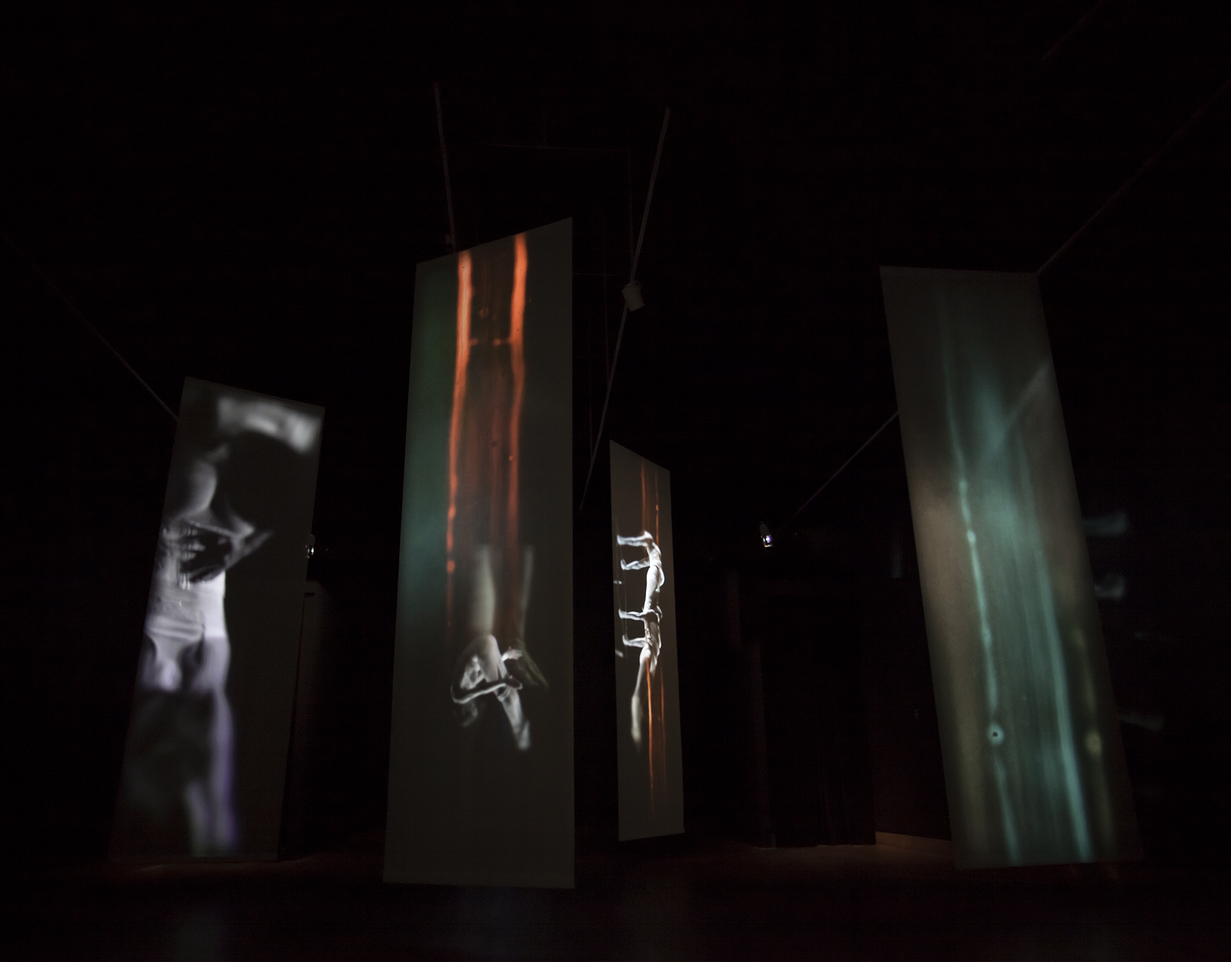
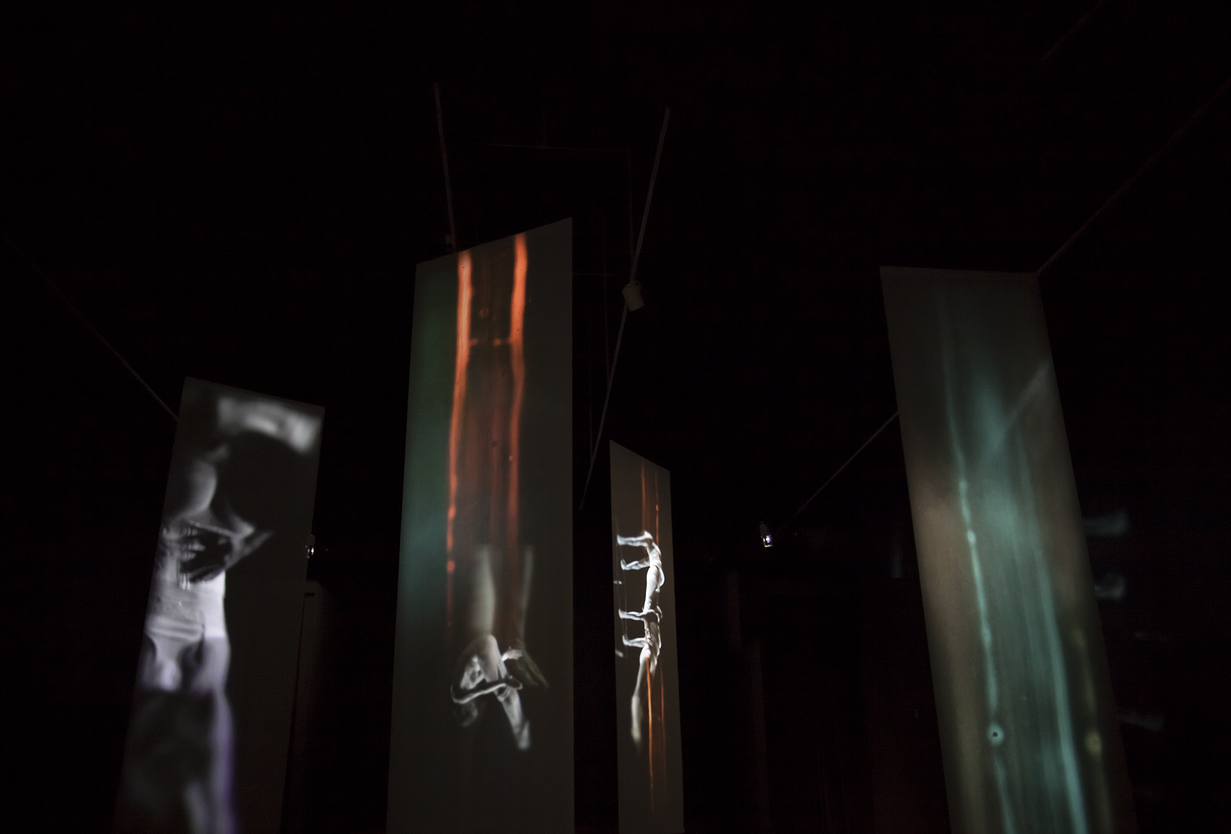
Ajoute Souffle et réminiscence

diff --git a/_projects-en/souffle-et-reminiscence.html b/_projects-en/souffle-et-reminiscence.html
@@ -1,26 +1,30 @@
 ---
 title: Souffle et réminiscence
 date: 2011-11-11
+published: true
 type: video
 language: en
 layout: project
-tags: [Installation, Conception vidéo, Animation]
+tags: [Video Design, Animation]
 ---
 
 <section class="wide">
-  {% include image.html name="hero" alt="Photographie de l’installation Souffle et réminiscence" %}
+  {% include image.html name="hero" alt="Picture of the installation Souffle et réminiscence" %}
 </section>
 
 <section class="superimposed">
   <div class="text">
     <h1>Souffle et réminiscence</h1>
-    <p class="intro">Une installation invitant à la contemplation.</p>
+    <p class="intro">An installation about soaring bodies, fear, and excitement.</p>
   </div>
 </section>
 
 <section>
   <div class="text">
-    <p>Conception par Jeannot Painchaud du Cirque Éloize. Installation présentée lors de l’exposition <em>Big Bang</em> au Musée des beaux-arts de Montréal. Musique par <a href="http://grandponey.com/jacques-poulin-denis/">Jacques Poulin-Denis</a>. Réalisé au sein de <a href="http://foumalade.org">Foumalade</a>.</p>
+    <p>Inspired by Jean-Paul Riopelle’s <em>Le cirque</em>, Jeannot Painchaud (Cirque Éloize) envisionned an art installation that plunges visitors into a space inhabited by ghostly bodies straining, breathing, and moving through the air.</p>
+    <p>Presented as part of the <em>Big Bang</em> exhibiton at the Montreal Museum of Fine Arts. Music by <a href="http://grandponey.com/jacques-poulin-denis/">Jacques Poulin-Denis</a>. Video work done as part of the <a href="http://foumalade.org">Foumalade</a> collective.</p>
     {% include tags.html %}
   </div>
 </section>
+
+{% include video.html id="49175473" poster="still" title="Installation Teaser" %}

diff --git a/_projects-fr/souffle-et-reminiscence.html b/_projects-fr/souffle-et-reminiscence.html
@@ -1,10 +1,11 @@
 ---
 title: Souffle et réminiscence
 date: 2011-11-11
+published: true
 type: video
 language: fr
 layout: project
-tags: [Installation, Conception vidéo, Animation]
+tags: [Conception vidéo, Animation]
 ---
 
 <section class="wide">
@@ -14,13 +15,16 @@ tags: [Installation, Conception vidéo, Animation]
 <section class="superimposed">
   <div class="text">
     <h1>Souffle et réminiscence</h1>
-    <p class="intro">Une installation invitant à la contemplation.</p>
+    <p class="intro">Une installation sur le corps, la peur, l’exaltation.</p>
   </div>
 </section>
 
 <section>
   <div class="text">
-    <p>Conception par Jeannot Painchaud du Cirque Éloize. Installation présentée lors de l’exposition <em>Big Bang</em> au Musée des beaux-arts de Montréal. Musique par <a href="http://grandponey.com/jacques-poulin-denis/">Jacques Poulin-Denis</a>. Réalisé au sein de <a href="http://foumalade.org">Foumalade</a>.</p>
+    <p>Inspiré par <em>Le cirque</em> de Jean-Paul Riopelle, Jeannot Painchaud (Cirque Éloize) a imaginé une installation qui nous plonge dans un univers habité de corps fantômatiques qui se tordent, respirent et s’animent dans l’espace.</p>
+    <p>Présenté dans le cadre de l’exposition <em>Big Bang</em> au Musée des Beaux-Arts de Montréal. Musique par <a href="http://grandponey.com/jacques-poulin-denis/">Jacques Poulin-Denis</a>. Réalisé au sein de <a href="http://foumalade.org">Foumalade</a>.</p>
     {% include tags.html %}
   </div>
 </section>
+
+{% include video.html id="49175473" poster="still" title="Captation de l’installation" %}

diff --git a/_sass/projects/souffle-et-reminiscence.scss b/_sass/projects/souffle-et-reminiscence.scss
@@ -1,7 +1,7 @@
 body.souffle-et-reminiscence {
-  background-color: #0d0b0a;
+  background-color: black;
   
   section.wide {
-    @include image-container(2048, 1600, 230%, -55%);
+    @include image-container(2048, 1387, 230%, -55%);
   }
 }

diff --git a/_sass/mixins.scss b/_sass/mixins.scss
@@ -70,11 +70,11 @@
   margin-bottom: 2em;
 
   @include tablet {
-    margin-bottom: 2.5em;
+    margin-bottom: 3em;
   }
 
   @include desktop {
-    margin-bottom: 3.5em;
+    margin-bottom: 4em;
   }
 }
 
